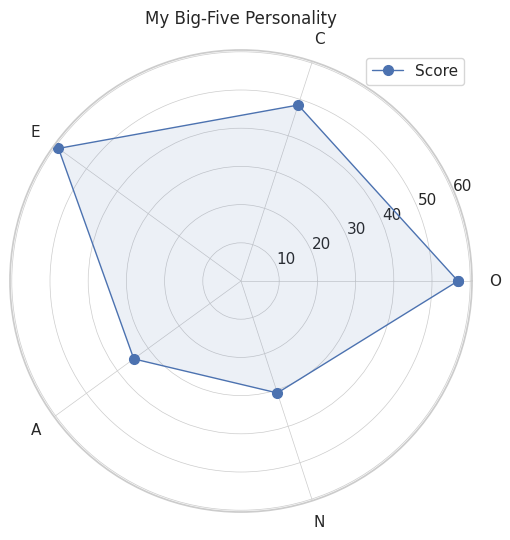
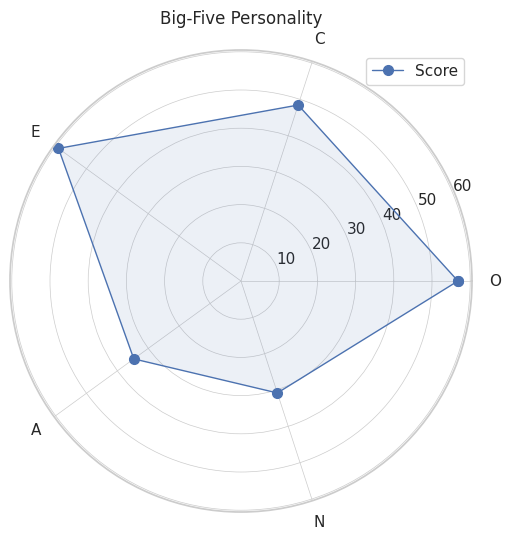
feat: Center plots :alien:

Changed region(s): [[0.2647, 0.0, 0.6765, 0.0593]]

diff --git a/products/persona-predict/notebooks/utility.py b/products/persona-predict/notebooks/utility.py
@@ -5,7 +5,8 @@ import numpy as np
 import pandas as pd
 import requests
 import seaborn as sns
-from IPython.display import display, HTML
+from IPython.display import HTML, Markdown, display
+
 
 def login(user: str, password: str) -> dict:
     resp = requests.post(
@@ -176,11 +177,15 @@ def plot_big_five_bar(score_big_five: list) -> None:
 
     plt.xlabel("Traits")
     plt.ylabel("Percentage")
-    plt.title("My Big-Five Personality")
+    plt.title("Big-Five Personality")
 
     plt.xticks(rotation=0)
     plt.tight_layout()
-    plt.show()
+
+    plt.savefig("plots/big_five_plot_bar.png", bbox_inches="tight")
+    plt.close()
+
+    display(Markdown("<center><img src='plots/big_five_plot_bar.png'/></center>"))
 
 
 def plot_big_five_radar(score_big_five: list) -> None:
@@ -209,43 +214,14 @@ def plot_big_five_radar(score_big_five: list) -> None:
     ax.set_xticks(angles[:-1])
     ax.set_xticklabels(keys[:-1])
 
-    plt.title("My Big-Five Personality")
+    plt.title("Big-Five Personality")
     plt.legend(loc="upper right")
-    plt.show()
 
-def plot_big_five_radar(score_big_five: list) -> None:
-    keys = list(score_big_five[0].keys())
-    percentile = list(score_big_five[0].values())
-
-    keys.append(keys[0])
-    percentile.append(percentile[0])
-
-    fig, ax = plt.subplots(figsize=(12, 6), subplot_kw={"polar": True})
-
-    angles = np.linspace(0, 2 * np.pi, len(keys), endpoint=True)
-
-    ax.plot(
-        angles,
-        percentile,
-        "b",
-        linestyle="solid",
-        linewidth=1,
-        marker="o",
-        markersize=7,
-        label="Score",
-    )
-    ax.fill(angles, percentile, "b", alpha=0.1)
-
-    ax.set_xticks(angles[:-1])
-    ax.set_xticklabels(keys[:-1])
-
-    plt.title("My Big-Five Personality")
-    plt.legend(loc="upper right")
-    
     plt.savefig("plots/big_five_plot_radar.png", bbox_inches="tight")
     plt.close()
-    
+
     display(HTML("<center><img src='plots/big_five_plot_radar.png' /></center>"))
+
 
 def plot_big_five_openness_facets_bar(score_openness_facets: list) -> None:
     sns.set(style="whitegrid", rc={"grid.linewidth": 0.5})
